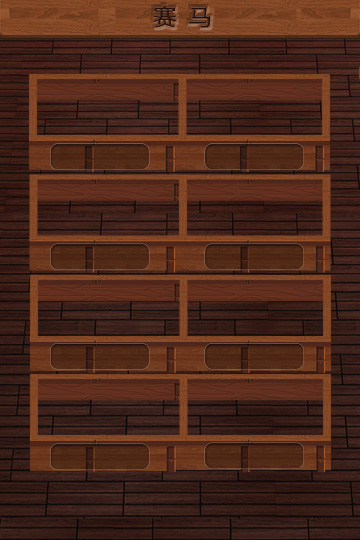
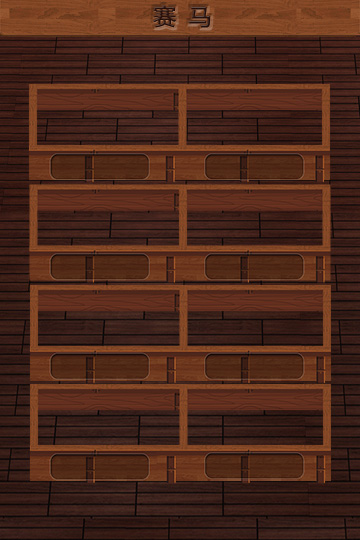
update

diff --git a/source/assets/js/spot.js b/source/assets/js/spot.js
@@ -1,4 +1,4 @@
-var game = new Phaser.Game(720, 1080, Phaser.AUTO, 'game');
+var game = new Phaser.Game(360, 540, Phaser.AUTO, 'game');
 
 BasicGame = {
 
@@ -69,8 +69,9 @@ BasicGame.Preloader = function (game) {
 BasicGame.Preloader.prototype = {
 
     preload: function () {
-        this.add.sprite(100, 500, 'preloaderbar-bottom');
-        this.preloadBar = this.add.sprite(106.5, 513.5, 'preloaderBar');
+        this.add.sprite(game.world.centerX, game.world.centerY, 'preloaderbar-bottom').anchor.setTo(0.5);
+        this.preloadBar = this.add.sprite(game.world.centerX, game.world.centerY, 'preloaderBar');
+        this.preloadBar.anchor.setTo(0.5);
 
         this.load.setPreloadSprite(this.preloadBar);
 
@@ -164,10 +165,10 @@ BasicGame.Game.prototype = {
     create: function () {
         this.myLoader = new Phaser.Loader(game);
         this.add.sprite(0, 0, 'header');
-        this.add.sprite(0, 510, 'mid');
-        this.add.sprite(0, 971, 'footer');
-        this.add.button(20, 1000, 'prompt', this.promptOnce, this);
-        this.add.button(205, 1000, 'add-time', this.addTime, this);
+        this.add.sprite(0, 255, 'mid');
+        this.add.sprite(0, 485, 'footer');
+        this.add.button(10, 500, 'prompt', this.promptOnce, this);
+        this.add.button(102, 500, 'add-time', this.addTime, this);
 
         this.circles = game.add.graphics(0, 0);
         this.nextLevel();
@@ -239,8 +240,8 @@ BasicGame.Game.prototype = {
     },
 
     begin: function () {
-        this.upImage = this.add.sprite(0, 88,'up');
-        this.downImage = this.add.sprite(0, 548,'down');
+        this.upImage = this.add.sprite(0, 44,'up');
+        this.downImage = this.add.sprite(0, 274,'down');
 
         this.upImage.inputEnabled = true;
         this.upImage.events.onInputDown.add(this.check, this);
@@ -248,7 +249,7 @@ BasicGame.Game.prototype = {
         this.downImage.events.onInputDown.add(this.check, this);
         this.circles.lineStyle(3, 0xff0000);
         game.world.bringToTop(this.circles);
-        this.timeText = this.add.text(595, 1005, this.getRTime(), {font: "42px Arial", fill: "#ffffff"});
+        this.timeText = this.add.text(300, 503, this.getRTime(), {font: "21px Arial", fill: "#ffffff"});
         this.remainTimer = game.time.events.loop(Phaser.Timer.SECOND, this.updateTime, this);
     },
 
@@ -301,10 +302,10 @@ BasicGame.Game.prototype = {
 
     check: function (sprite, pointer) {
         for (i = 0; i < this.currentImage.coordinate.length; i++) {
-            if ((this.math.distance(pointer.x, pointer.y, this.currentImage.coordinate[i].x, this.currentImage.coordinate[i].y + 88) < this.currentImage.coordinate[i].iradius) ||
-            (this.math.distance(pointer.x, pointer.y, this.currentImage.coordinate[i].x, this.currentImage.coordinate[i].y + 548) < this.currentImage.coordinate[i].iradius)) {
-                this.circles.drawCircle(this.currentImage.coordinate[i].x, 88 + this.currentImage.coordinate[i].y, this.currentImage.coordinate[i].iradius * 2);
-                this.circles.drawCircle(this.currentImage.coordinate[i].x, 548 + this.currentImage.coordinate[i].y, this.currentImage.coordinate[i].iradius * 2);
+            if ((this.math.distance(pointer.x, pointer.y, this.currentImage.coordinate[i].x, this.currentImage.coordinate[i].y + 44) < this.currentImage.coordinate[i].iradius) ||
+            (this.math.distance(pointer.x, pointer.y, this.currentImage.coordinate[i].x, this.currentImage.coordinate[i].y + 274) < this.currentImage.coordinate[i].iradius)) {
+                this.circles.drawCircle(this.currentImage.coordinate[i].x, 44 + this.currentImage.coordinate[i].y, this.currentImage.coordinate[i].iradius * 2);
+                this.circles.drawCircle(this.currentImage.coordinate[i].x, 274 + this.currentImage.coordinate[i].y, this.currentImage.coordinate[i].iradius * 2);
                 this.found++;
                 this.currentImage.coordinate.splice(i, 1);
                 this.remainTime += this.sconfig.at;
@@ -348,8 +349,8 @@ BasicGame.Game.prototype = {
     doPrompt: function () {
         this.promptTimes++;
         promptpoint = this.currentImage.coordinate.pop();
-        this.circles.drawCircle(promptpoint.x, 88 + promptpoint.y, promptpoint.iradius * 2);
-        this.circles.drawCircle(promptpoint.x, 548 + promptpoint.y, promptpoint.iradius * 2);
+        this.circles.drawCircle(promptpoint.x, 44 + promptpoint.y, promptpoint.iradius * 2);
+        this.circles.drawCircle(promptpoint.x, 274 + promptpoint.y, promptpoint.iradius * 2);
         this.found++;
 
         if (this.found == 5) {

diff --git a/source/assets/js/horserace.js b/source/assets/js/horserace.js
@@ -82,7 +82,7 @@ BasicGame.Preloader.prototype = {
         this.load.image('runway-end','assets/horserace/end.png');
         this.load.image('panel','assets/horserace/panel.png');
         this.load.spritesheet('stand','assets/horserace/stand.png', 87, 55);
-
+        this.load.image('gamepoints','assets/gamepoints.png');
 
         // this.load.audio('hit_ground_sound', 'assets/turntable/ouch.wav');
 
@@ -142,9 +142,10 @@ BasicGame.MainMenu.prototype = {
     create: function () {
         game.world.setBounds(0, 0, 360, 540);
         this.add.sprite(0, 0, 'menu-bg');
-        this.pointsText = this.add.text(260, 5, userpoints, { font: "20px Arial", fill: "#000000" });
+        this.add.sprite(110, 50, 'gamepoints');
+        this.pointsText = this.add.text(160, 50, userpoints, { font: "20px Arial", fill: "#00CC00" });
         var horseX = 59;
-        var horseY = 80;
+        var horseY = 90;
         for (i = 0; i < horseNum; i++) {
             var h = this.add.sprite(horseX, horseY, 'stand', i);
             h.inputEnabled = true;
@@ -177,7 +178,7 @@ BasicGame.MainMenu.prototype = {
             this.rankSprite[i] = this.add.group();
         }
 
-        this.add.button(game.world.centerX, 490, 'start', this.startGame, this).anchor.setTo(0.5, 0);
+        this.add.button(game.world.centerX, 495, 'start', this.startGame, this).anchor.setTo(0.5, 0);
 
     },
 
@@ -225,7 +226,7 @@ BasicGame.MainMenu.prototype = {
                 myChips.rankPoints[this.selectedRank] = myBet;
                 updP -= myBet;
                 var tempX = 55 + (horseId - 1) % 2 * 155;
-                var tempY = 145 + parseInt((horseId - 1) / 2) * 100;
+                var tempY = 155 + parseInt((horseId - 1) / 2) * 100;
                 if (this.rankSprite[this.selectedRank].length == 0) {
                     this.rankSprite[this.selectedRank].create(0, 0, 'rank', this.selectedRank);
                     this.add.text(40, 0, myBet, { font: "20px Arial", fill: "#00CC00" }, this.rankSprite[this.selectedRank]);
@@ -380,27 +381,26 @@ BasicGame.Game.prototype = {
         this.panel.cameraOffset.x = 0;
         this.panel.cameraOffset.y = 0;
 
-        var style = { font: "20px Arial", fill: "#000000" };
         var chipY = 5;
         if (myChips['rank'][0]) {
-            game.add.text(80, chipY, myChips['rank'][0] + '号  下注积分：' + myChips['rankPoints'][0], style, this.panel);
+            game.add.text(80, chipY, myChips['rank'][0] + '号  下注积分：' + myChips['rankPoints'][0], { font: "20px Arial", fill: "#00CC00" }, this.panel);
         } else {
-            game.add.text(150, chipY, '未下注', style, this.panel);
+            game.add.text(150, chipY, '未下注', { font: "20px Arial", fill: "#FF0000" }, this.panel);
         }
         chipY += 30;
         if (myChips['rank'][1]) {
-            game.add.text(80, chipY, myChips['rank'][1] + '号  下注积分：' + myChips['rankPoints'][1], style, this.panel);
+            game.add.text(80, chipY, myChips['rank'][1] + '号  下注积分：' + myChips['rankPoints'][1], { font: "20px Arial", fill: "#00CC00" }, this.panel);
         } else {
-            game.add.text(150, chipY, '未下注', style, this.panel);
+            game.add.text(150, chipY, '未下注', { font: "20px Arial", fill: "#FF0000" }, this.panel);
         }
         chipY += 30;
         if (myChips['rank'][2]) {
-            game.add.text(80, chipY, myChips['rank'][2] + '号  下注积分：' + myChips['rankPoints'][2], style, this.panel);
+            game.add.text(80, chipY, myChips['rank'][2] + '号  下注积分：' + myChips['rankPoints'][2], { font: "20px Arial", fill: "#00CC00" }, this.panel);
         } else {
-            game.add.text(150, chipY, '未下注', style, this.panel);
+            game.add.text(150, chipY, '未下注', { font: "20px Arial", fill: "#FF0000" }, this.panel);
         }
 
-        var y = 92;
+        var y = 95;
         for (i = 0; i < horseNum; i++) {
             this.players[i] = game.add.sprite(this.startX, y + 53 * (this.ranklist[i] - 1), 'horse' + this.ranklist[i], 0);
         }

diff --git a/source/assets/js/turntable.js b/source/assets/js/turntable.js
@@ -132,7 +132,7 @@ BasicGame.Game.prototype = {
         var turnGroup = game.add.group();
         var turntableCache = this.cache.getImage('turntable');
         circleX = game.width / 2;
-        circleY = 90 + turntableCache.height / 2;
+        circleY = 100 + turntableCache.height / 2;
         this.turntable = turnGroup.create(circleX, circleY, 'turntable');
         this.turntable.anchor.setTo(0.5);
 
@@ -161,11 +161,12 @@ BasicGame.Game.prototype = {
 
         this.add.sprite(0, 0, 'panel');
         // game.add.text(game.world.centerX, 20, nickname, { font: "20px Arial", fill: "#000000"}, turnGroup).anchor.setTo(0.5, 0);
-        if (isLogin) this.pointsText = game.add.text(280, 20, userpoints, { font: "20px Arial", fill: "#000000"}, turnGroup);
+        this.add.text(game.world.centerX, 10, '大转盘', { font: "30px Arial", fill: "#000000"}).anchor.setTo(0.5, 0);
+        if (isLogin) this.pointsText = this.add.text(260, 15, userpoints, { font: "20px Arial", fill: "#000000"});
 
         desc = desc.replace(/###/g,"\n");
-        descText = game.add.text(22, 472, desc, { font: "20px Arial", fill: "#000000" });
-        descY = 440;
+        descText = game.add.text(22, 482, desc, { font: "20px Arial", fill: "#000000" });
+        descY = 450;
         game.add.sprite(10, descY, 'desc-header');
         descY += 31;
         for (i = 1; i <= Math.ceil(descText.getLocalBounds().height / 9); i++) {
@@ -189,7 +190,7 @@ BasicGame.Game.prototype = {
         this.gameoverGroup.visible = false;
         var style = { font: "bold 25px Arial", fill: "#0000FF", align: "center" };
 
-        this.gameoverText = game.add.text(game.world.centerX, 70, '', style, this.gameoverGroup);
+        this.gameoverText = game.add.text(game.world.centerX, 85, '', style, this.gameoverGroup);
         this.gameoverText.anchor.setTo(0.5);
     },
 
